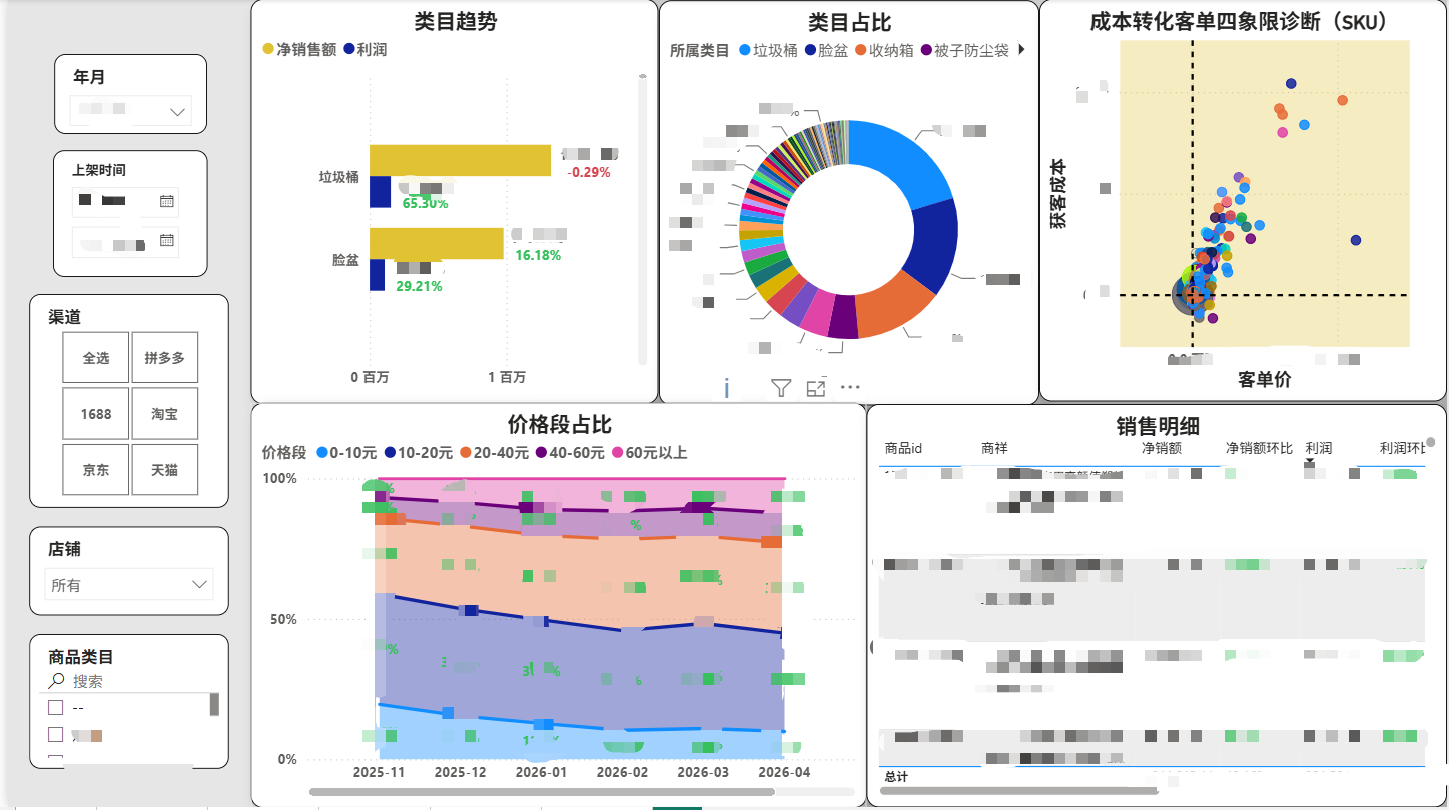
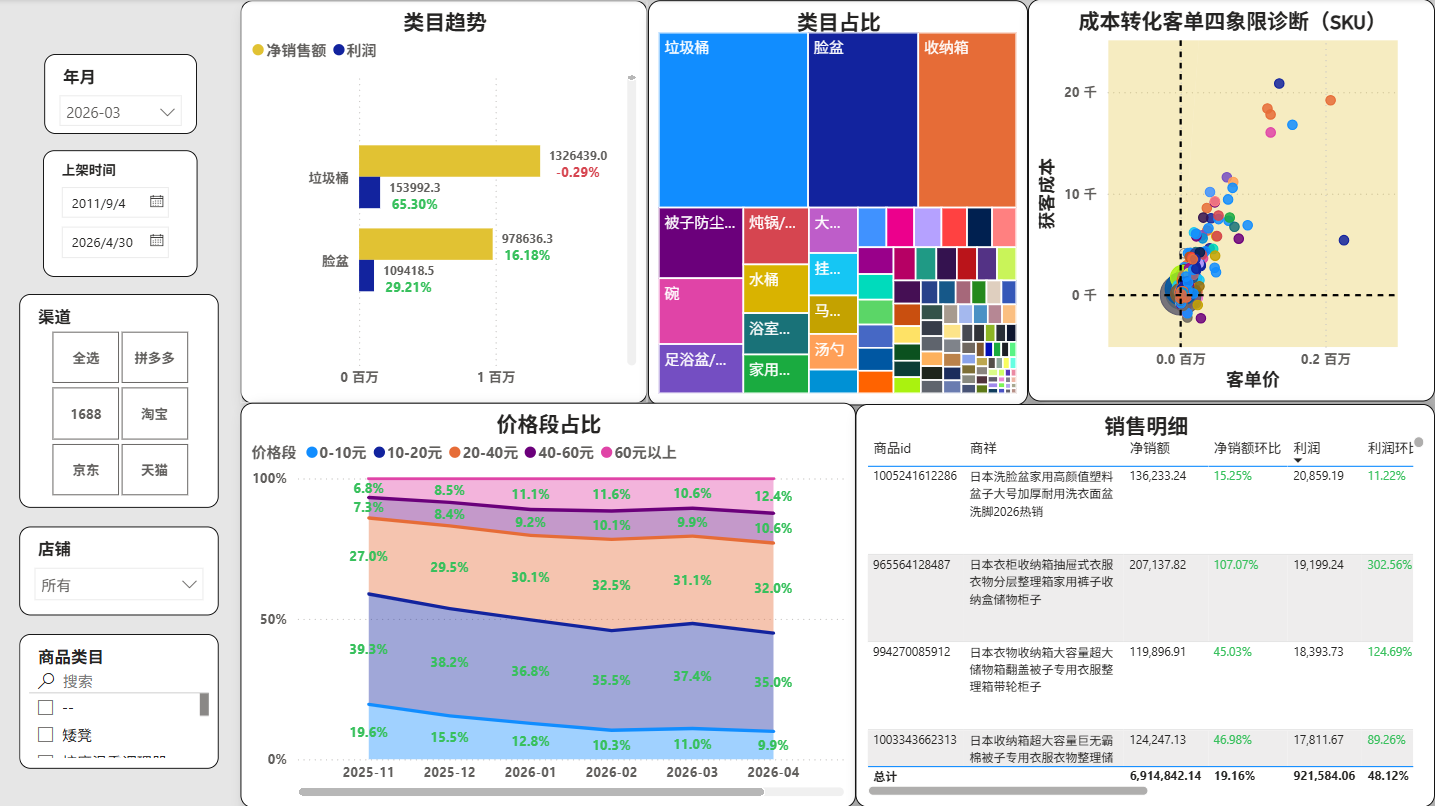
更新类目排行诊断图片

diff --git a/index.html b/index.html
@@ -400,7 +400,7 @@
     </div>
   </div>
   <div class="dash-container">
-     <img src="商品分析.png?v=b210f1c" alt="类目排行与成本转化客单价诊断仪表盘" loading="lazy">
+                    <img src="商品分析.png?v=de645af" alt="类目排行与成本转化客单价诊断仪表盘" loading="lazy">
   </div>
 </section>
 
